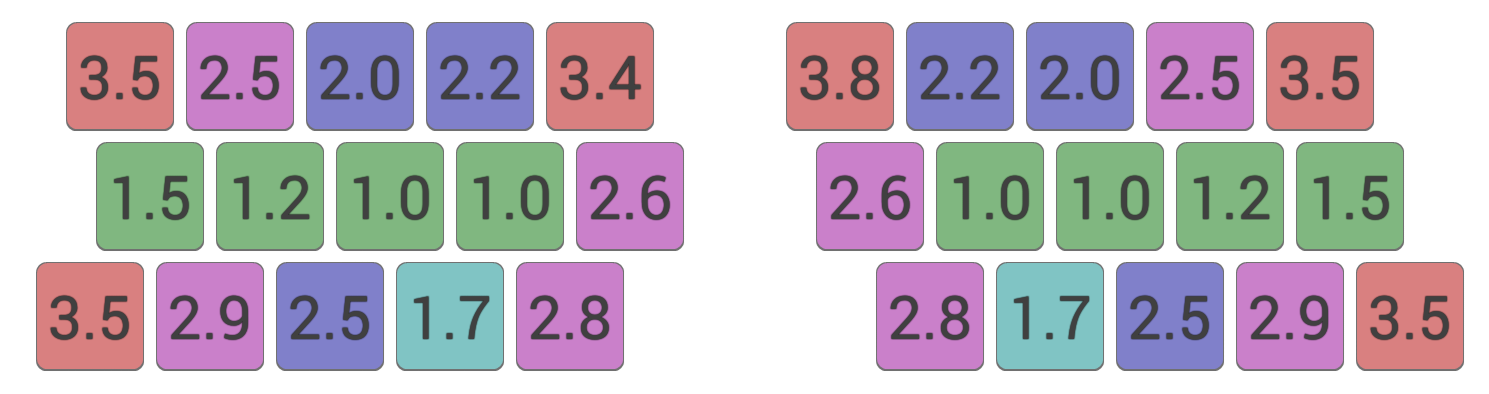
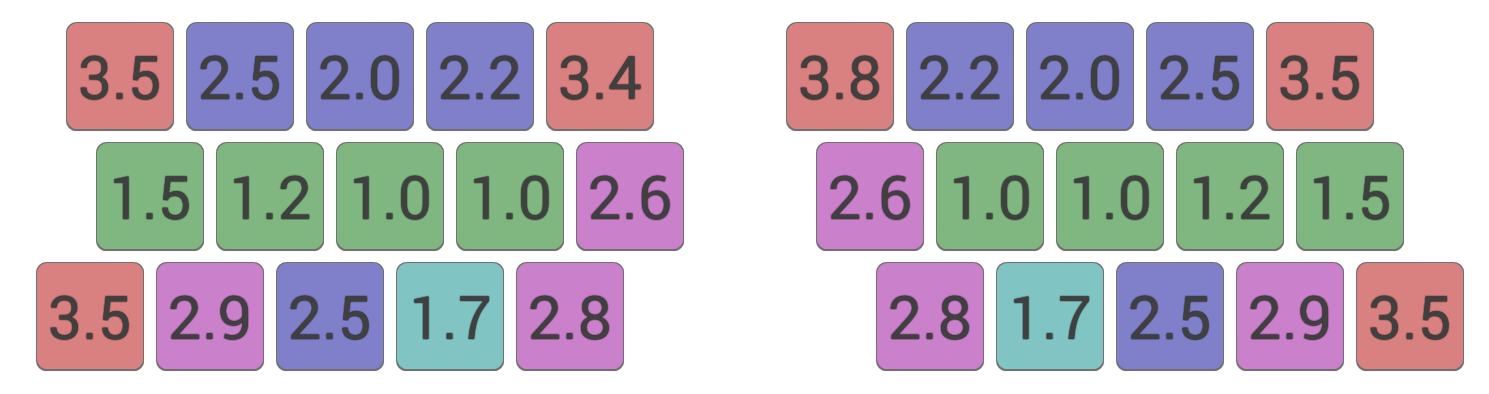
Updates to copy, change key weights graphic, add links to layouts.

Changed region(s): [[0.7723, 0.0609, 0.865, 0.335], [0.1236, 0.0609, 0.2163, 0.335]]

diff --git a/compare.html b/compare.html
@@ -65,29 +65,41 @@
 <img src="gfx/keyboard_penalties.png"/>
 </p>
 
-<p>These efforts and penalties are my estimations based on personal experience, which I think are reasonable. Others may disagree of course, there are some other examples <a href="http://mkweb.bcgsc.ca/carpalx/?typing_effort#carpalx_typing_model">here</a>, <a href="http://viralintrospection.wordpress.com/2010/09/06/a-different-philosophy-in-designing-keyboard-layouts/#design">here</a> and <a href="http://forum.colemak.com/viewtopic.php?pid=15137#p15137">here</a>. Note also the key efforts defined assume the application of the <a href="./#angle-mod">"angle"</a> mod.</p>
+<p>These efforts and penalties are my estimations based on personal experience/opinion, but I think they're fairly reasonable. Others may disagree of course, and there are some other examples <a href="http://mkweb.bcgsc.ca/carpalx/?typing_effort#carpalx_typing_model">here</a>, <a href="http://viralintrospection.wordpress.com/2010/09/06/a-different-philosophy-in-designing-keyboard-layouts/#design">here</a> and <a href="http://forum.colemak.com/viewtopic.php?pid=15137#p15137">here</a>. Note that for the purposes of fair comparison, all layouts will use these key-effort values, which assume the <a href="./#angle-mod">"angle"</a> mod has been applied.</p>
 
-<p>You can try out this <a href="#layout-analyzer">Keyboard Layout Analyzer</a> tool (below) to generate statistics using your own input values.</p>
+<p>You can try out this <a href="#layout-analyzer">Keyboard Layout Analyzer</a> tool (below) to generate results using your own input values.</p>
 
 <h3><a name="compare-results" class="anchor" href="#compare-results">
 <span class="octicon octicon-link"></span></a>Results</h3>
 
 <table>
 <tr> <td></td> <td>base effort<br/>per key</td> <td>same-finger<br/>bigrams percentage</td> <td> same-finger<br/>penalty</td> <td> overall score<br/>effort per key</td> </tr>
-<tr> <td>Mod-DH (full)</td> <td>1.596</td> <td>1.51%</td> <td>0.040</td> <td>1.636</td> </tr>
-<tr> <td>Mod-DH (left)</td> <td>1.628</td> <td>1.51%</td> <td>0.040</td> <td>1.668</td> </tr>
-<tr> <td>Workman      </td> <td>1.606</td> <td>2.96%</td> <td>0.078</td> <td>1.684</td> </tr>
-<tr> <td>Colemak      </td> <td>1.663</td> <td>1.51%</td> <td>0.040</td> <td>1.703</td> </tr>
-<tr> <td>Asset        </td> <td>1.696</td> <td>2.97%</td> <td>0.079</td> <td>1.775</td> </tr>
-<tr> <td>Norman       </td> <td>1.614</td> <td>6.38%</td> <td>0.166</td> <td>1.780</td> </tr>
-<tr> <td>qgmlwyfub    </td> <td>1.699</td> <td>4.58%</td> <td>0.116</td> <td>1.815</td> </tr>
-<tr> <td>Dvorak       </td> <td>1.793</td> <td>2.53%</td> <td>0.065</td> <td>1.857</td> </tr>
-<tr> <td>Minimak-8key </td> <td>1.763</td> <td>4.03%</td> <td>0.108</td> <td>1.872</td> </tr>
-<tr> <td>Qwerty       </td> <td>2.192</td> <td>6.57%</td> <td>0.185</td> <td>2.376</td> </tr>
+<tr> <td>Mod-DH (full) <a href="http://colemakmods.github.io/mod-dh/" target="new_win"><img src="gfx/open.png"/></a></td> 
+			<td>1.596</td> <td>1.51%</td> <td>0.040</td> <td>1.636</td> </tr>
+<tr> <td>Mod-DH (left) <a href="http://colemakmods.github.io/mod-dh/" target="new_win"><img src="gfx/open.png"/></a>
+			</td> <td>1.628</td> <td>1.51%</td> <td>0.040</td> <td>1.668</td> </tr>
+<tr> <td>Workman <a href="http://www.workmanlayout.com/blog/" target="new_win"><img src="gfx/open.png"/></a>
+			</td> <td>1.606</td> <td>2.96%</td> <td>0.078</td> <td>1.684</td> </tr>
+<tr> <td>Colemak <a href="http://colemak.com/" target="new_win"><img src="gfx/open.png"/></a></td> 
+			<td>1.663</td> <td>1.51%</td> <td>0.040</td> <td>1.703</td> </tr>
+<tr> <td>Asset <a href="http://millikeys.sourceforge.net/asset/" target="new_win"><img src="gfx/open.png"/></a>
+			</td> <td>1.696</td> <td>2.97%</td> <td>0.079</td> <td>1.775</td> </tr>
+<tr> <td>Norman <a href="https://normanlayout.info/" target="new_win"><img src="gfx/open.png"/></a>
+			</td> <td>1.614</td> <td>6.38%</td> <td>0.166</td> <td>1.780</td> </tr>
+<tr> <td>qgmlwyfub <a href="http://mkweb.bcgsc.ca/carpalx/?full_optimization" target="new_win"><img src="gfx/open.png"/></a>
+			</td> <td>1.699</td> <td>4.58%</td> <td>0.116</td> <td>1.815</td> </tr>
+<tr> <td>Dvorak <a href="http://en.wikipedia.org/wiki/Dvorak_Simplified_Keyboard" target="new_win"><img src="gfx/open.png"/></a>
+			</td> <td>1.793</td> <td>2.53%</td> <td>0.065</td> <td>1.857</td> </tr>
+<tr> <td>Minimak-8key <a href="http://www.minimak.org/" target="new_win"><img src="gfx/open.png"/></a>
+			</td> <td>1.763</td> <td>4.03%</td> <td>0.108</td> <td>1.872</td> </tr>
+<tr> <td>Qwerty <a href="http://en.wikipedia.org/wiki/QWERTY" target="new_win"><img src="gfx/open.png"/></a>
+			</td> <td>2.192</td> <td>6.57%</td> <td>0.185</td> <td>2.376</td> </tr>
 <caption>Comparison of various layouts using the scoring system defined above (lower is better).</caption>
 </table>
 
-<p>Mod-DH comes out as the winner, but perhaps this is not surprising given the scoring system rewards use of the key locations that Mod-DH optimizes. A cynic might argue that it is easy to win a competition when you choose your own rules! In that case, especially if you disagree with the input weights and penalties, why not try out the tool below with your own inputs to see how it affects the results!</p>
+<p>Hooray, Mod-DH comes out as the clear winner! Perhaps this is not surprising given the scoring system rewards use of the key locations that Mod-DH optimizes. A cynic might even argue that it is easy to win a competition when you choose your own scoring system! But unless you wildly disagree with the effort values used, Mod-DH should work out more comfortable than any of the layouts shown. And of course, if you think the input weights and penalties used need modifying, then why not try out the tool below with your own inputs to see how it affects the results!</p>
+
+<p>It is my view that Mod-DH's optimized D and H positions are of almost home key quality, and these keys are often underrated in the design of other layouts. When using the Colemak layout, D and H are the most common non-home keys, so they ought to have good locations. While the Workman layout does a good job of making better use of some easy-to-type keys, in the process it makes some keys unduly difficult (I am not a fan of its placement of D), and also increases the amount of same finger bigrams. Mod-DH takes some of the good design elements of Workman and applies them to Colemak, to produce a layout which I would argue is superior to both!</p>
 
 <h3><a name="layout-analyzer" class="anchor" href="#layout-analyzer">
 <span class="octicon octicon-link"></span></a>Layout Analyzer Tool</h3>

diff --git a/index.html b/index.html
@@ -64,8 +64,9 @@ Colemak with Mod-DH, shown for an ISO keyboard. Keys are colored according to th
 <ul>
 <li>Places the heavily used D and H keys in more comfortable and easier-to-reach positions.</li>
 <li>Moves G to a slightly easier position also, reverting to its placement in Qwerty.</li>
+<li>Reduces usage of the difficult-to-reach center column by about half.</li>
 <li>Retains Colemak's many other strengths, such as it's home key placement and low rate of same-finger bigrams.</li>
-<li>No keys change fingers from standard Colemak, making it easy for existing Colemak users to adopt.</li>
+<li>No keys change fingers from standard Colemak, making it easy to adopt for existing Colemak users.</li>
 </ul>
 
 <p>The mod consists of two separate parts, the left-hand "D" change, and the right-hand "H" change. It is perfectly acceptable to apply the mod to one side of the keyboard only. I especially recommend trying the left-hand change for the greatest benefit.

diff --git a/stylesheets/steve.css b/stylesheets/steve.css
@@ -10,3 +10,12 @@ a.menu {
 	padding: 2px 2px 2px 22px;
 	height: 30px;
 }
+
+td img {
+  display: inline;
+  margin: 0;
+  padding: 0;
+  vertical-align: middle;
+  text-align: center;
+  border: none;
+}
